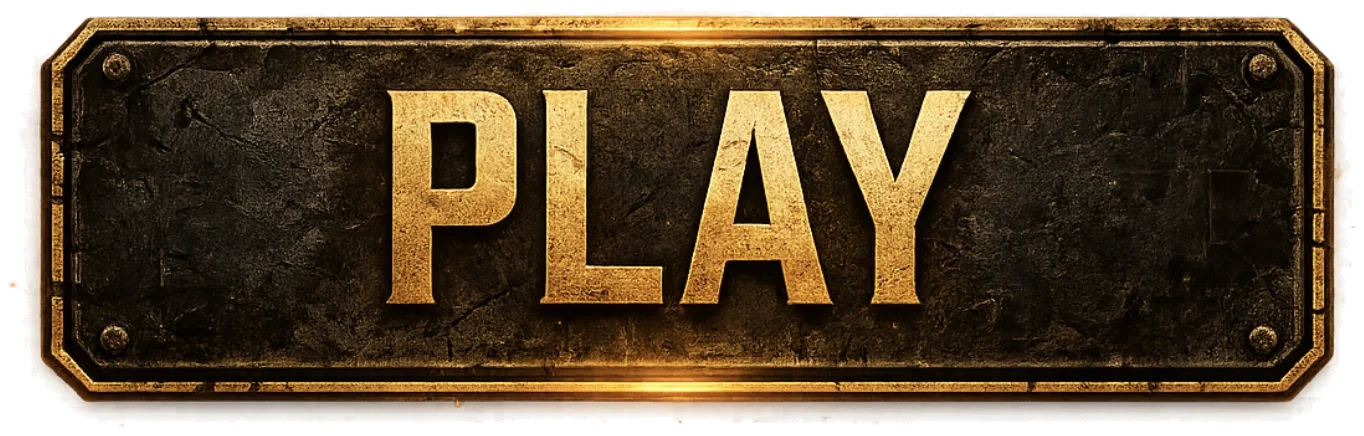
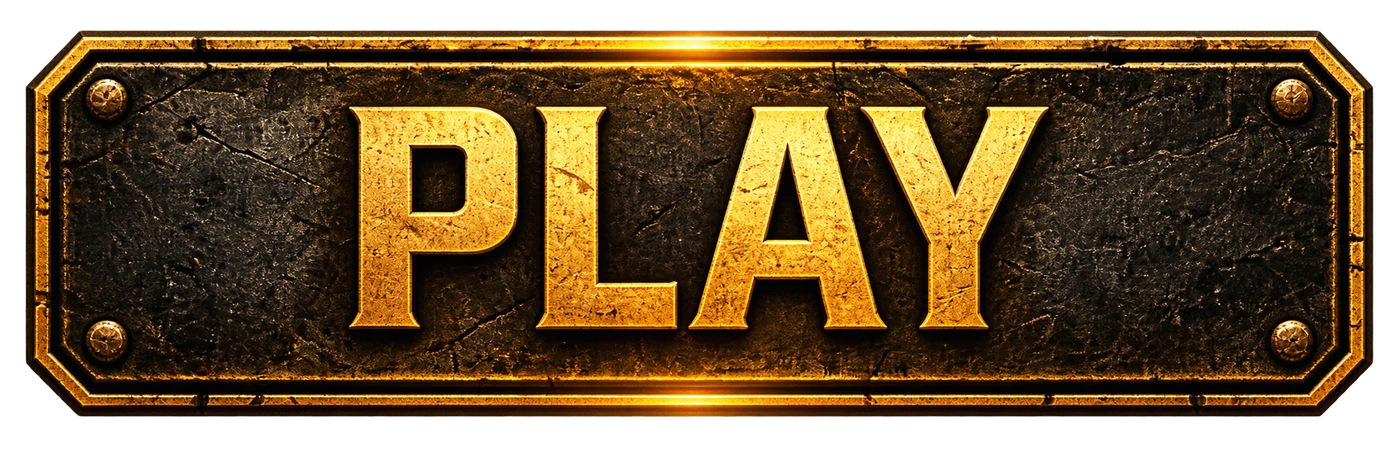
Replace Play button plate image with the user's new design
New rectangular gold-on-black riveted plate (2172x724 source, resized
to 1400x467 preserving its exact 3:1 aspect ratio - updated the CSS
aspect-ratio to match so it doesn't stretch). Checked its transparent
background pixels for the same RGB-bleed issue the previous halo fix
addressed - this one's already clean (0,0,0) throughout, no cleanup
needed.

diff --git a/src/style.css b/src/style.css
@@ -5620,7 +5620,7 @@ html.theme-lighter #app { filter: brightness(1.25); }
   position: relative;
   margin-top: 0;
   width: min(400px, 56vw);
-  aspect-ratio: 1364 / 436;
+  aspect-ratio: 1400 / 467;
   padding: 0;
   border: none;
   outline: none;
